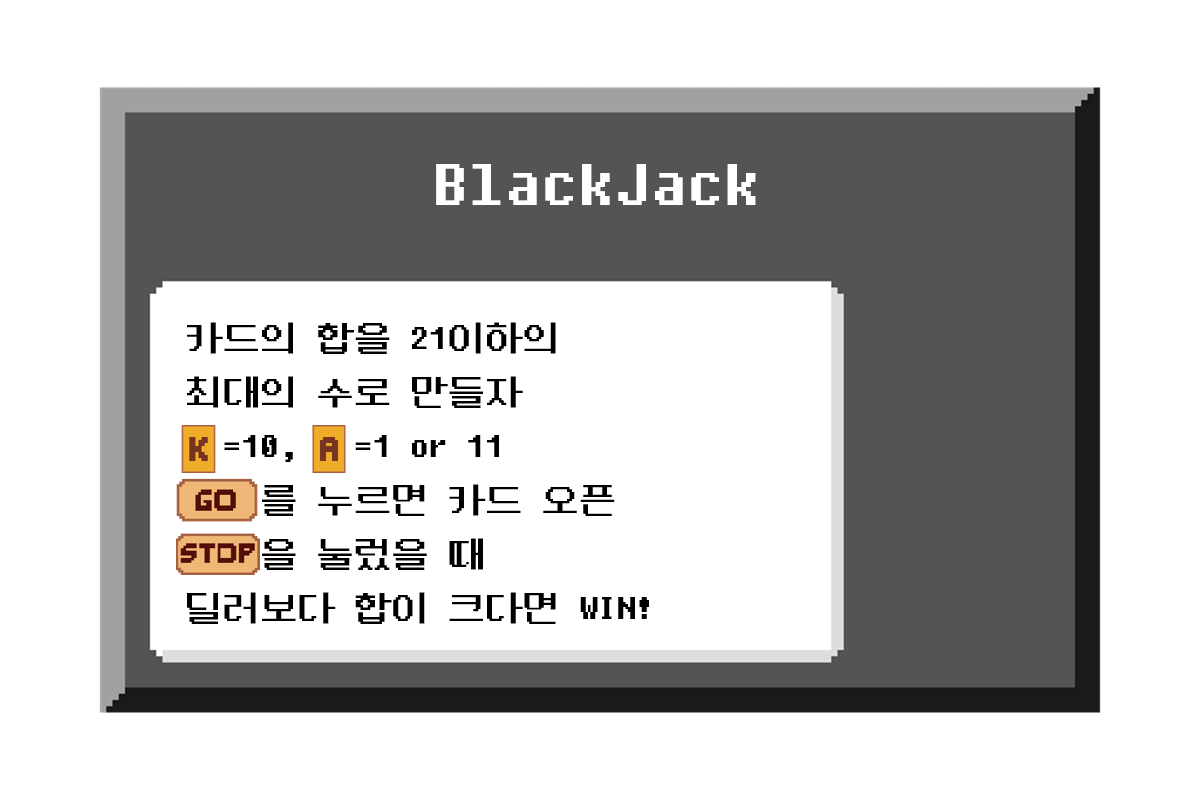
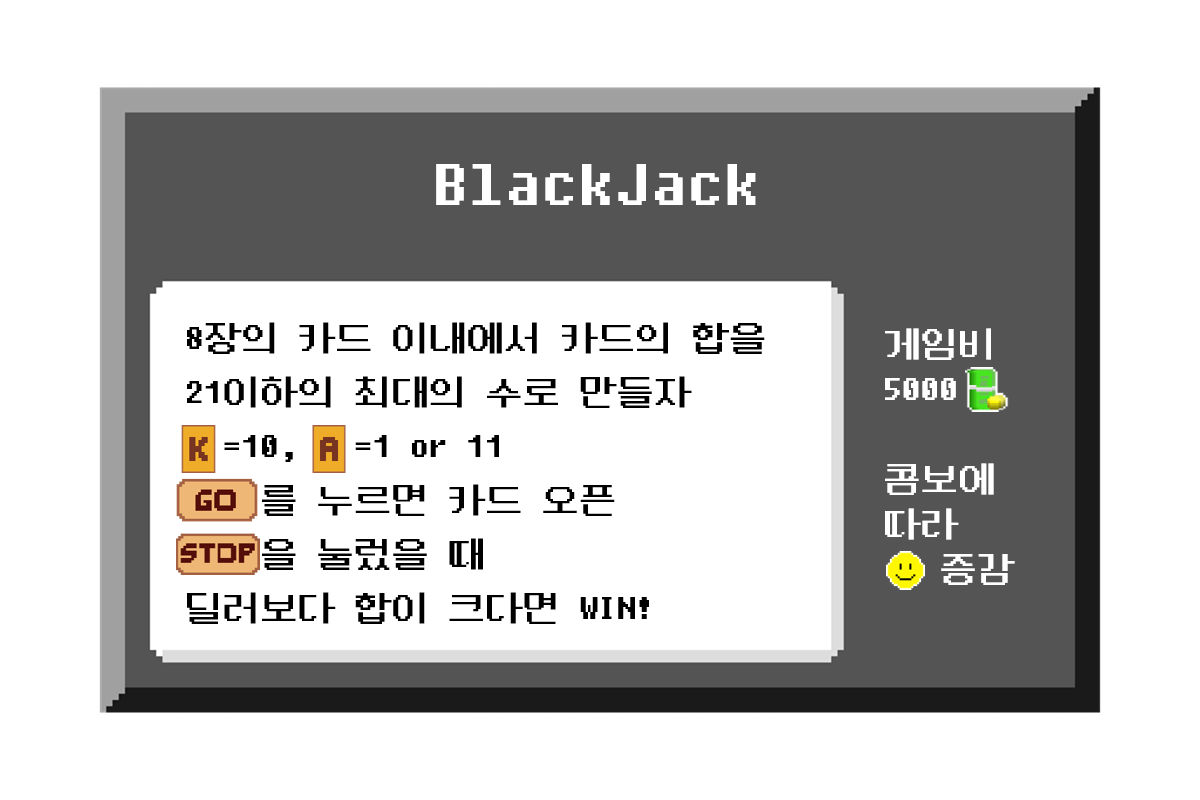
돈 감소 추가

Changed region(s): [[0.1542, 0.4062, 0.6475, 0.5312], [0.74, 0.5625, 0.8633, 0.75], [0.74, 0.4062, 0.8325, 0.5312]]

diff --git a/WinterProject/WebContent/main.js b/WinterProject/WebContent/main.js
@@ -2,7 +2,7 @@
 //공통변수
 date=3; //30일부터 1일 까지 0이면 게임 엔딩
 joy=5; //즐거움 1~10일 까지 0이면 게임 오버
-money=10000; //돈 10000원에서 시작 0이면 게임 오버 -> 1초당 1000원씩 감소
+money=50000; //돈 10000원에서 시작 0이면 게임 오버 -> 1초당 1000원씩 감소
 ending=0; //ending이 1이면 게임오버, ending이 2이면 엔딩씬
 
 playNum=new Array(0,0,0,0);
@@ -18,6 +18,8 @@ class Main extends Phaser.Scene{
         this.gameOver=false; //true이면 게임종료
         //메인 화면 UI 설정
         this.mainLeftBar;
+        this.moneyBar;
+        this.pause=false;
 
         this.dateText;
         this.joyText;
@@ -74,6 +76,7 @@ class Main extends Phaser.Scene{
         this.load.audio('편의점bgm','assets/music/편의점bgm.mp3');
 
         //메인게임 날짜, 즐거움, 돈 _ 왼쪽 바
+        this.load.image('머니바','assets/main/money_bar.png')
         this.load.image('왼쪽바', 'assets/main/메인게임UI왼쪽바.png');
 
 
@@ -119,6 +122,7 @@ class Main extends Phaser.Scene{
 
     create ()   
     {   
+        this.pause=false;
         if(joy<=2){
             music=this.sound.add('메인게임나쁨bgm','assets/music/메인게임나쁨bgm.mp3');
         }
@@ -148,6 +152,7 @@ class Main extends Phaser.Scene{
         this.덤불 = ['덤불0', '덤불1', '덤불2', '덤불3', '덤불4'];
         this.flag = true;
         this.mainLeftBar = this.add.image(0, 0, '왼쪽바').setOrigin(0);
+        this.moneyBar=this.add.image(43,215,'머니바').setOrigin(0).setScale(1,50000/200000);
         this.dateText=this.add.bitmapText(45,45,'myfont',date,36)
         this.joyText = this.add.bitmapText(68,120,'myfont',joy,26,'center')
         this.moneyText = this.add.bitmapText(20,200,'myfont',money,26,'center')
@@ -188,6 +193,7 @@ class Main extends Phaser.Scene{
         
         
         this.button_no.on('pointerdown', (event) => {
+            this.pause=false;
             this.button_ok.visible=false;
             this.button_no.visible=false;
             this.mainCharacter.setX(480);
@@ -334,7 +340,7 @@ class Main extends Phaser.Scene{
         this.글귀4.setScale(0.65);
         this.글귀5.setScale(0.65);
         
-        
+        this.moneyDecrease = this.time.addEvent({ delay:1000, callback:this.howMuchMoney,callbackScope:this,loop:true})
     }
 
     update()
@@ -454,6 +460,14 @@ class Main extends Phaser.Scene{
         
     }
 
+    howMuchMoney(){
+        if(!this.pause){
+        var MAX=200000
+        money-=1000
+        this.moneyBar.setScale(1,money/MAX);
+        }
+    }
+
     //각 미니게임으로 넘어가기
     houseRandom() {
         if (this.mainCharacter.x > 384 && this.mainCharacter.x < 448) {
@@ -522,6 +536,7 @@ class Main extends Phaser.Scene{
 
     runningOrNot(){
         if (this.spacebar.isDown) {
+            this.pause=true;
             this.whichGame = 1;
             this.playerMove = false;
             this.런닝방법.visible = true;
@@ -535,6 +550,7 @@ class Main extends Phaser.Scene{
 
     blackJackorNot(){
         if (this.spacebar.isDown) {
+            this.pause=true;
             this.whichGame = 2;
             this.블랙잭방법.visible = true;
             this.런닝방법.visible = false;
@@ -548,6 +564,7 @@ class Main extends Phaser.Scene{
 
     pizzaOrNot() {
         if (this.spacebar.isDown) {
+            this.pause=true;
             this.whichGame = 3;
             this.피자방법.visible = true;
             this.런닝방법.visible = false;
@@ -561,6 +578,7 @@ class Main extends Phaser.Scene{
 
     store24OrNot(){
         if (this.spacebar.isDown) {
+            this.pause=true;
             this.whichGame = 4;
             this.편순이방법.visible = true;
             this.런닝방법.visible = false;
